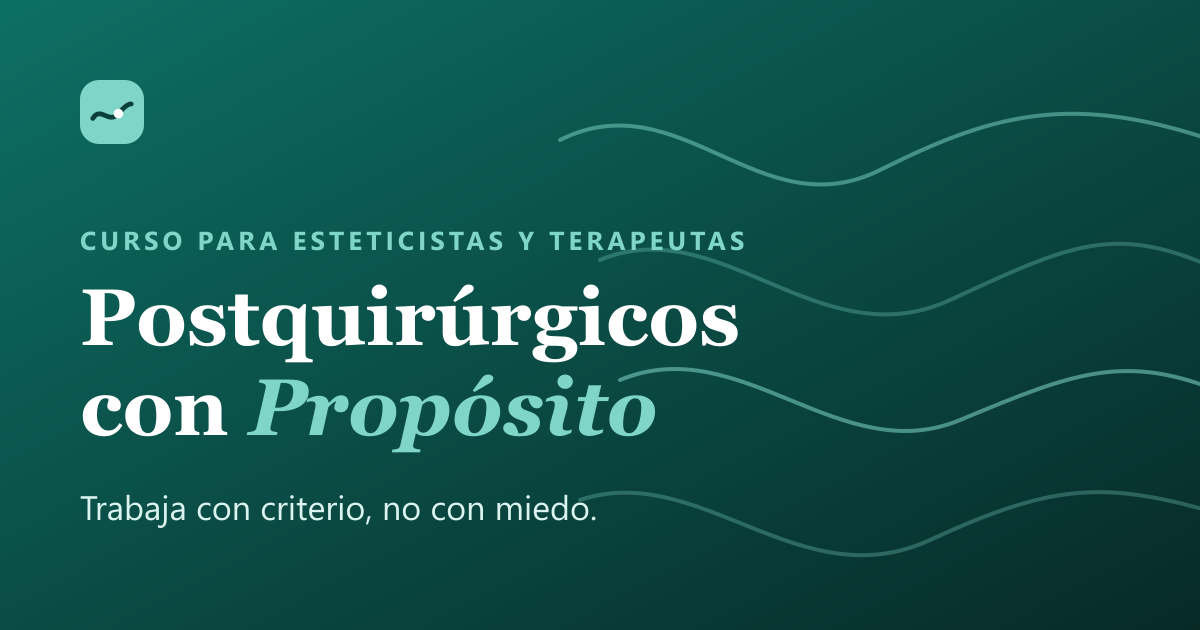
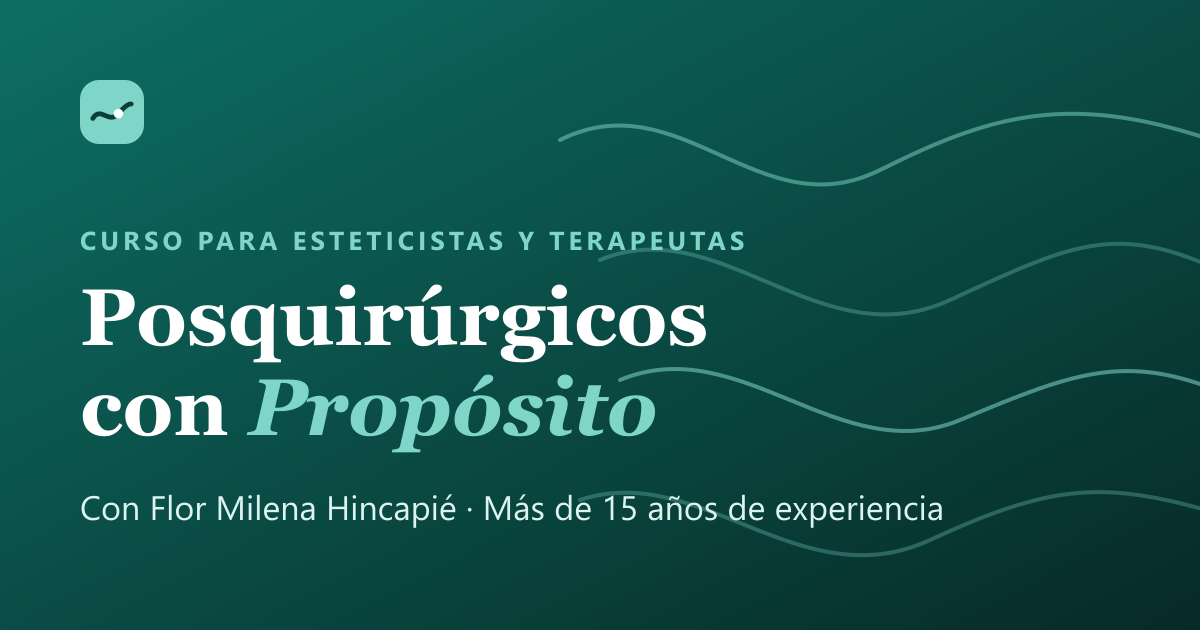
Escribir «posquirúrgico» sin t
La marca pasa a ser «Posquirúrgicos con Propósito», la forma que
prefiere la RAE. Se actualizan los textos, el título y la descripción
del sitio, el README y la imagen para redes, que ahora también
menciona a la instructora.

Changed region(s): [[0.0617, 0.7841, 0.8017, 0.8444], [0.185, 0.4524, 0.6167, 0.573]]

diff --git a/src/data/course.ts b/src/data/course.ts
@@ -3,13 +3,13 @@ import type { Course } from './types';
 export const course: Course = {
   hero: {
     eyebrow: 'Curso para esteticistas, cosmetólogas y terapeutas',
-    title: 'Trabaja tus postquirúrgicos con *criterio*, no con miedo',
-    lead: 'Aprende a valorar, acompañar y tratar usuarios postquirúrgicos con un protocolo claro: qué hacer, cuándo hacerlo y por qué hacerlo.',
+    title: 'Trabaja tus posquirúrgicos con *criterio*, no con miedo',
+    lead: 'Aprende a valorar, acompañar y tratar usuarios posquirúrgicos con un protocolo claro: qué hacer, cuándo hacerlo y por qué hacerlo.',
     cta: 'Quiero más información',
     secondaryCta: 'Ver los módulos',
     highlights: ['Más de 15 años de experiencia', '10 módulos', 'Método P.R.O.P.Ó.S.I.T.O'],
     image: 'images/hero.jpg',
-    imageAlt: 'Flor Milena Hincapié, instructora del curso Postquirúrgicos con Propósito',
+    imageAlt: 'Flor Milena Hincapié, instructora del curso Posquirúrgicos con Propósito',
     quote: 'No todo tejido duro es fibrosis.',
   },
 
@@ -41,7 +41,7 @@ export const course: Course = {
     after: {
       title: 'Al terminar el curso',
       items: [
-        'Valoras correctamente a cada usuario postquirúrgico.',
+        'Valoras correctamente a cada usuario posquirúrgico.',
         'Sabes qué hacer según la etapa del postoperatorio.',
         'Previenes la fibrosis desde el inicio.',
         'Diferencias edema, inflamación y fibrosis.',
@@ -91,7 +91,7 @@ export const course: Course = {
         result: 'Entiendes el proceso del cuerpo y dejas de trabajar a ciegas.',
       },
       {
-        title: 'Antes de tocar: aprende a valorar a un usuario postquirúrgico con criterio',
+        title: 'Antes de tocar: aprende a valorar a un usuario posquirúrgico con criterio',
         topics: [
           'Cómo hacer una valoración profesional',
           'Qué preguntas hacer',
@@ -127,7 +127,7 @@ export const course: Course = {
         result: 'Sabes qué hacer en cada momento de la recuperación.',
       },
       {
-        title: 'Drena sin lastimar: postquirúrgicos sin dolor y con mejores resultados',
+        title: 'Drena sin lastimar: posquirúrgicos sin dolor y con mejores resultados',
         topics: [
           'Presión correcta',
           'Cómo trabajar sin generar trauma',
@@ -185,7 +185,7 @@ export const course: Course = {
         result: 'Ganas seguridad real.',
       },
       {
-        title: 'Construye tu protocolo postquirúrgico con propósito',
+        title: 'Construye tu protocolo posquirúrgico con propósito',
         topics: [
           'Cómo organizar las sesiones',
           'Protocolos por tipo de cirugía',
@@ -220,27 +220,27 @@ export const course: Course = {
       ],
     },
     patientNote:
-      '¿Eres paciente y buscas un drenaje postquirúrgico? Este curso es una formación para profesionales. Sigue siempre las indicaciones de tu cirujano.',
+      '¿Eres paciente y buscas un drenaje posquirúrgico? Este curso es una formación para profesionales. Sigue siempre las indicaciones de tu cirujano.',
   },
 
   instructors: {
     eyebrow: 'Conoce a tu instructora',
     title: 'Aprende de la *experiencia*',
-    intro: 'Comprende cada proceso y transforma tu manera de trabajar los postquirúrgicos.',
+    intro: 'Comprende cada proceso y transforma tu manera de trabajar los posquirúrgicos.',
     people: [
       {
         name: 'Flor Milena Hincapié',
-        role: 'Profesional de la salud y especialista en acompañamiento postquirúrgico estético',
+        role: 'Profesional de la salud y especialista en acompañamiento posquirúrgico estético',
         highlights: [
-          'Más de 15 años de experiencia en drenajes y acompañamiento postquirúrgico',
+          'Más de 15 años de experiencia en drenajes y acompañamiento posquirúrgico',
           'Formación en enfermería, servicio farmacéutico y cosmetología',
           'Experiencia en casas de recuperación (Recovery) de Medellín',
           'Usuarios de distintas regiones de Colombia y de otros países',
         ],
         bio: [
           'Soy una profesional apasionada por la salud, la estética y el acompañamiento humano. Mi trayectoria se basa en el conocimiento, la práctica y el aprendizaje constante.',
-          'Estos años me han enseñado que cada cirugía, cada cuerpo y cada proceso de recuperación son diferentes. Por eso, el abordaje postquirúrgico no debe basarse en protocolos generalizados, sino en el conocimiento, la observación y el criterio profesional.',
-          'Hoy quiero compartir contigo lo que he aprendido en este camino, para ayudarte a fortalecer tu seguridad profesional y a diseñar protocolos postquirúrgicos con propósito, de manera consciente, individualizada y responsable.',
+          'Estos años me han enseñado que cada cirugía, cada cuerpo y cada proceso de recuperación son diferentes. Por eso, el abordaje posquirúrgico no debe basarse en protocolos generalizados, sino en el conocimiento, la observación y el criterio profesional.',
+          'Hoy quiero compartir contigo lo que he aprendido en este camino, para ayudarte a fortalecer tu seguridad profesional y a diseñar protocolos posquirúrgicos con propósito, de manera consciente, individualizada y responsable.',
           'Porque detrás de cada procedimiento hay una persona que merece conocimiento, respeto y un acompañamiento profesional.',
         ],
         quote:
@@ -288,7 +288,7 @@ export const course: Course = {
     confirmed: false,
     title: 'Bonos incluidos',
     items: [
-      'Checklist de valoración postquirúrgica',
+      'Checklist de valoración posquirúrgica',
       'Guía rápida de señales de alarma',
       'Mapa de prevención de fibrosis por etapas',
       'Frases para educar a tus usuarios y generar confianza',
@@ -310,7 +310,7 @@ export const course: Course = {
       {
         question: '¿A quién está dirigido el curso?',
         answer:
-          'A esteticistas, cosmetólogas, auxiliares y terapeutas que trabajan con usuarios postquirúrgicos y quieren hacerlo con criterio, seguridad y propósito.',
+          'A esteticistas, cosmetólogas, auxiliares y terapeutas que trabajan con usuarios posquirúrgicos y quieren hacerlo con criterio, seguridad y propósito.',
       },
       {
         question: '¿Es otro curso de drenaje?',

diff --git a/src/data/site.ts b/src/data/site.ts
@@ -1,12 +1,12 @@
 import type { Site } from './types';
 
-const courseName = 'Postquirúrgicos con Propósito';
+const courseName = 'Posquirúrgicos con Propósito';
 
 export const site: Site = {
   name: courseName,
   title: `${courseName} | Curso para esteticistas y terapeutas`,
   description:
-    'Aprende a valorar, acompañar y tratar usuarios postquirúrgicos con criterio, propósito y seguridad. Formación para esteticistas, cosmetólogas y terapeutas.',
+    'Aprende a valorar, acompañar y tratar usuarios posquirúrgicos con criterio, propósito y seguridad. Formación para esteticistas, cosmetólogas y terapeutas.',
   locale: 'es_LA',
   themeColor: '#0b3f3a',
   logo: 'brand/logo.png',

diff --git a/README.md b/README.md
@@ -1,4 +1,4 @@
-# Postquirúrgicos con Propósito: landing page
+# Posquirúrgicos con Propósito: landing page
 
 Landing page estática para convertir el tráfico de Facebook e Instagram (Meta Ads) en conversaciones de WhatsApp.
 
